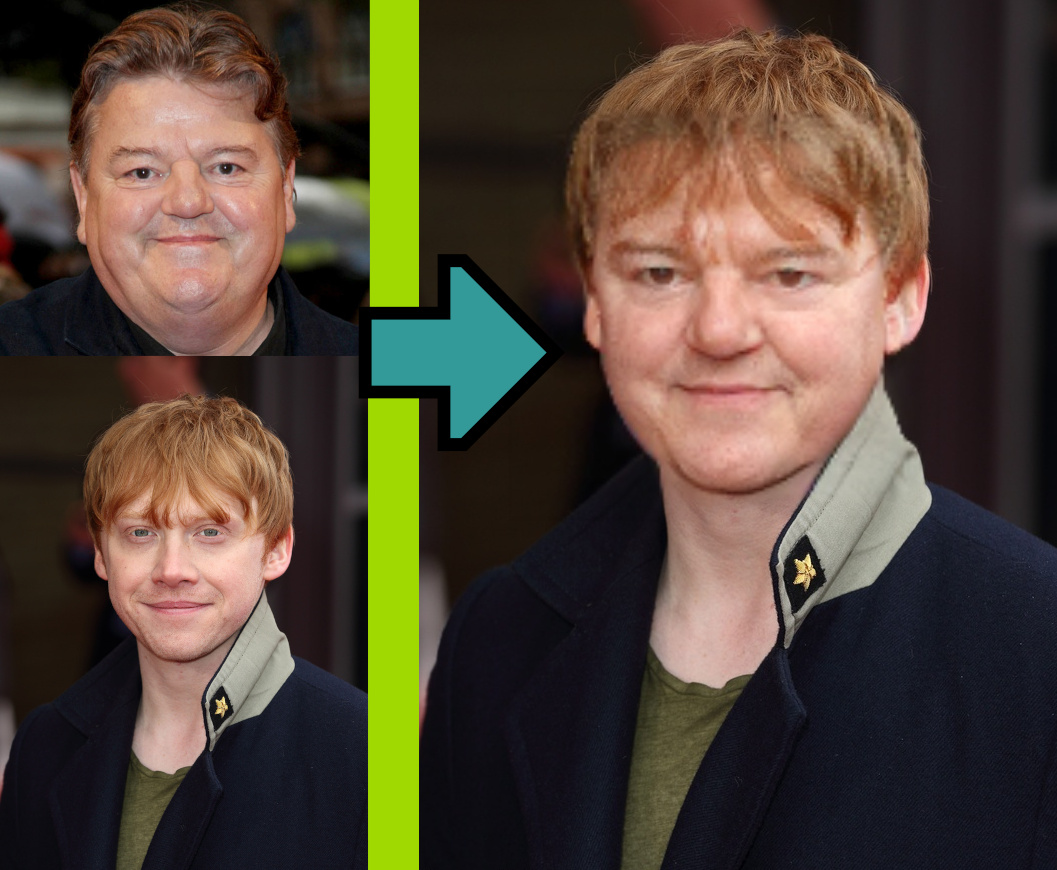
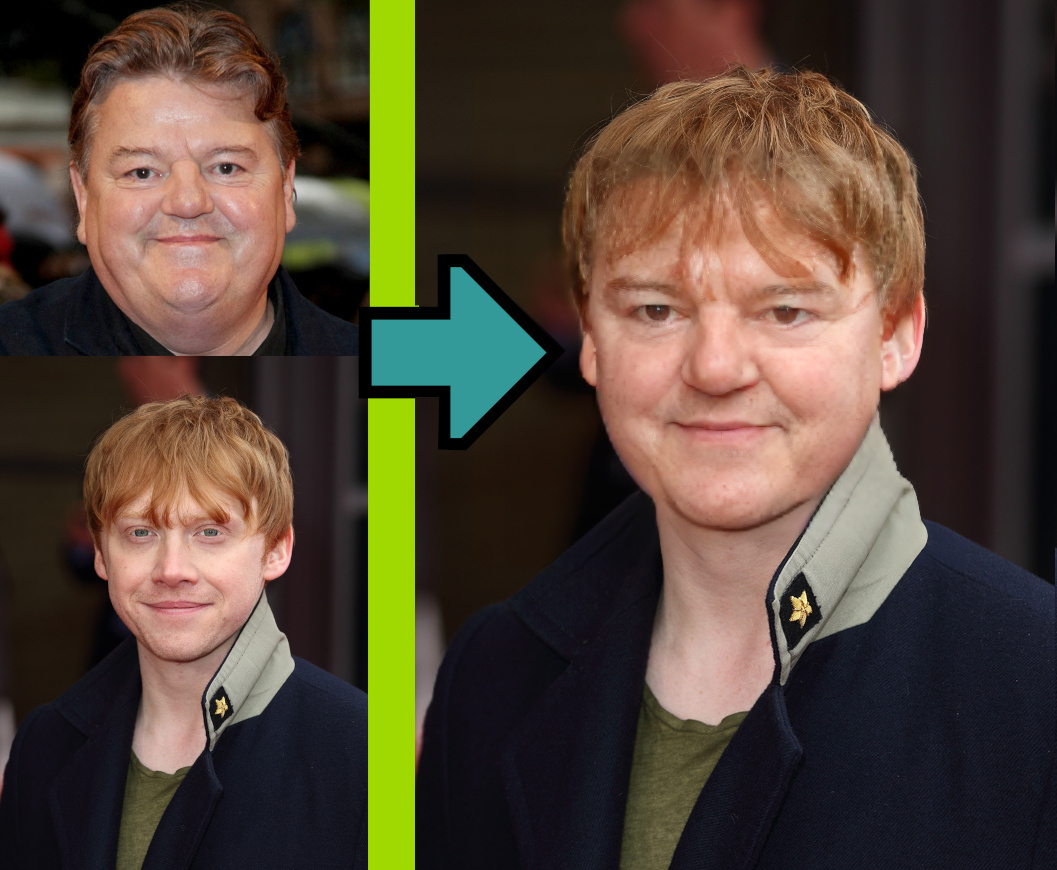
applied face enhancer

diff --git a/test/test.py b/test/test.py
@@ -8,7 +8,7 @@ f2f = Face2Face()
 source_img = cv2.imread("test_imgs/test_face_1.jpg")
 target_img = cv2.imread("test_imgs/test_face_2.jpg")
 #
-swapped = f2f.swap_one_image(source_img, target_img, enhance_faces=True, enhance_face_model='gpen_bfr_1024')
+swapped = f2f.swap_one_image(source_img, target_img, enhance_faces=True, enhance_face_model='gpen_bfr_2048')
 cv2.imwrite("swapped_face_gfpgan.png", swapped)
 #
 ## test embedding face swap

diff --git a/README.md b/README.md
@@ -230,7 +230,5 @@ Any help with maintaining and extending the package is welcome. Feel free to ope
 ToDo: 
 - make inference faster by implementing batching.
 - Implement strength factor for applied face
-- use a face enhancer gan to improve the quality of the swapped faces.
-- create real streaming in the webserver
-- improve streaming speed  
+- streaming for the webserver
 - implement video2video with auto face recognition
